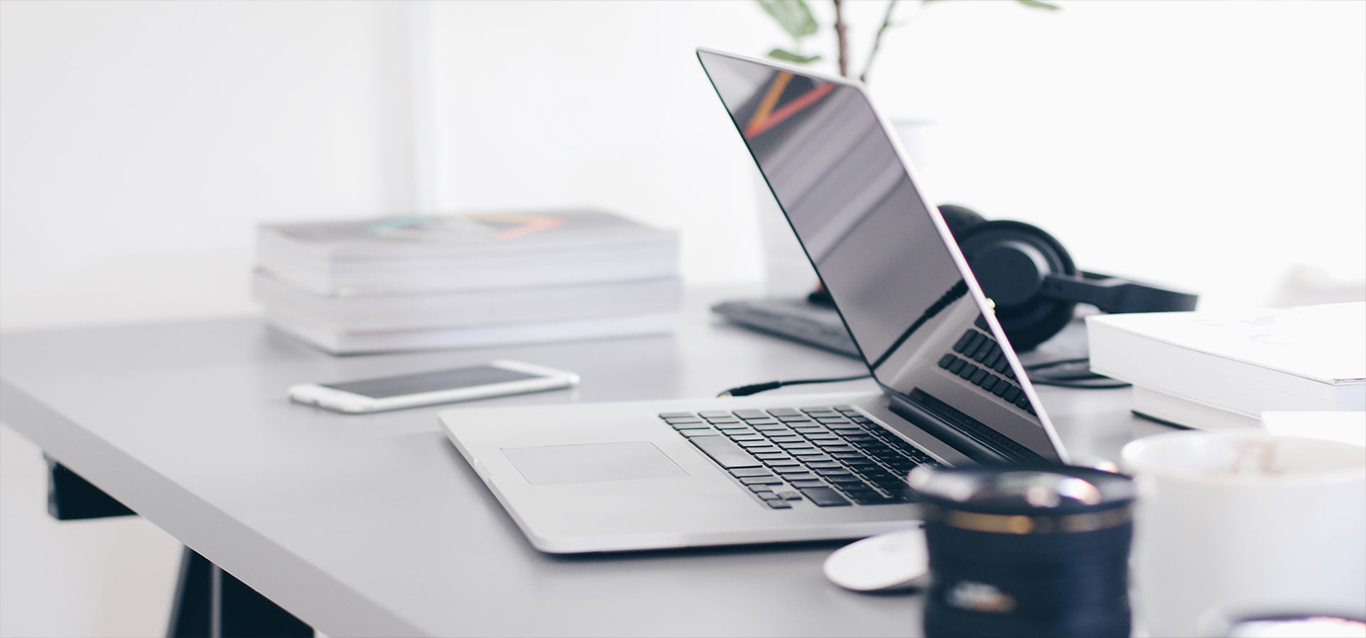
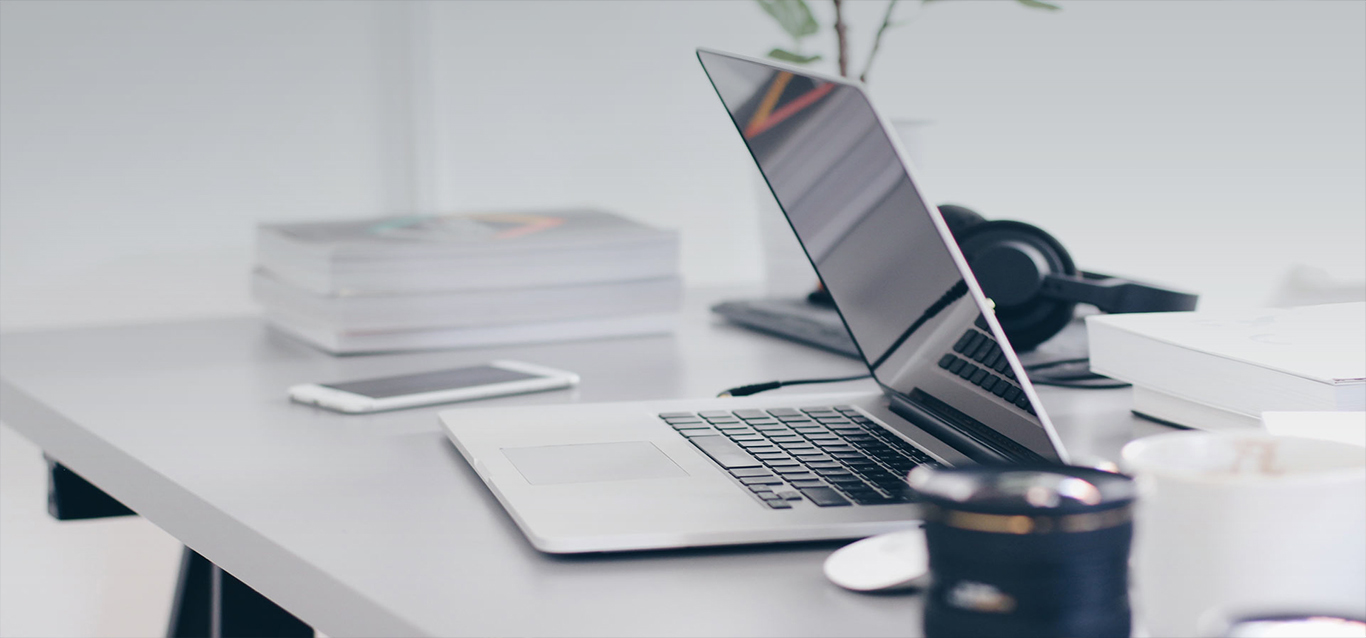
carrusel de header

diff --git a/src/app/header/header.component.html b/src/app/header/header.component.html
@@ -1,10 +1,10 @@
 <div id="header">
-  <nav class="navbar navbar-expand-lg navbar-light" style="background:transparent">
+  <nav class="navbar navbar-expand-lg navbar-light" style="background:transparent; z-index: 9;">
     <a class="navbar-brand  text-white" href="/">
       <img src="assets/Images/logo_blanco.png" height="75px" alt=""></a>
     <button class="navbar-toggler" type="button" data-toggle="collapse" data-target="#navbarSupportedContent" style="background: rgba(250, 250, 250, .4)"
       aria-controls="navbarSupportedContent" aria-expanded="false" aria-label="Toggle navigation">
-      <span class="navbar-toggler-icon" ></span>
+      <span class="navbar-toggler-icon"></span>
     </button>
 
     <div class="collapse navbar-collapse" id="navbarSupportedContent">
@@ -18,7 +18,7 @@
             aria-expanded="false">
             Nuestro Trabajo
           </a>
-          <div class="dropdown-menu" aria-labelledby="navbarDropdown">
+          <div class="dropdown-menu" aria-labelledby="navbarDropdown" style="background:rgb(10, 4, 4)">
             <a class="dropdown-item" routerLink="/services" routerLinkActive="active">Servicios</a>
             <a class="dropdown-item" routerLink="/products" routerLinkActive="active">Productos</a>
             <a class="dropdown-item" routerLink="/clients" routerLinkActive="active">Clientes</a>
@@ -30,9 +30,49 @@
       </ul>
     </div>
   </nav>
-  <div id="title">
-    <!-- <h1> < iQ Studio /> </h1>
-      <h2>Soluciones Digitales</h2> -->
-    <img src="assets/Images/logo_blanco.png" class="img-fluid" alt="" style="max-width: 400px">
+  <!-- <div id="title"> -->
+  <div id="demo" class="carousel slide" data-ride="carousel" style="position:absolute; top:0">
+    <!-- Indicators -->
+    <ul class="carousel-indicators">
+      <li data-target="#demo" data-slide-to="0" class="active"></li>
+      <li data-target="#demo" data-slide-to="1"></li>
+      <li data-target="#demo" data-slide-to="2"></li>
+    </ul>
+
+    <!-- The slideshow -->
+    <div class="carousel-inner">
+      <div class="carousel-item active">
+        <img src="assets/Images/banner-img.jpg">
+        <div class="carousel-caption">
+          <img src="assets/Images/logo_blanco.png" class="img-fluid" alt="" style="max-width: 400px">
+        </div>
+
+      </div>
+      <div class="carousel-item">
+        <img src="assets/Images/banner22.jpg" alt="">
+        <div class="carousel-caption">
+        <img src="assets/Images/logo_blanco.png" class="img-fluid" alt="" style="max-width: 400px"></div>
+      </div>
+      <div class="carousel-item">
+        <img src="assets/Images/banner33.jpg" alt="New York">
+        <div class="carousel-caption">
+        <img src="assets/Images/logo_blanco.png" class="img-fluid" alt="" style="max-width: 400px"></div>
+      </div>
+    </div>
+
+    <!-- Left and right controls
+    <a class="carousel-control-prev" href="#demo" data-slide="prev">
+      <span class="carousel-control-prev-icon"></span>
+    </a>
+    <a class="carousel-control-next" href="#demo" data-slide="next">
+      <span class="carousel-control-next-icon"></span>
+    </a> -->
+
   </div>
+
+
+  <!-- <h1> < iQ Studio /> </h1>
+      <h2>Soluciones Digitales</h2> -->
+  <!-- <img src="assets/Images/logo_blanco.png" class="img-fluid" alt="" style="max-width: 400px"> -->
 </div>
+<!-- </div> -->

diff --git a/src/app/contact/contact.component.html b/src/app/contact/contact.component.html
@@ -8,7 +8,7 @@
 <div class="container">
   <div class="row">
     <div class="col-md-6">
-      <img src="assets/Images/contact1.jpg" alt="">
+      <img src="assets/Images/contactanos2.png" alt="">
     </div>
 
     <div class="col-md-6">

diff --git a/src/styles.css b/src/styles.css
@@ -7,8 +7,8 @@ html {
 }
 
 #header {
-  background-image: url(assets/Images/banner-img.jpg);
-  background-size: cover;
+  /* background-image: url(assets/Images/banner-img.jpg);
+  background-size: cover; */
   min-height: 500px;
 }
 
